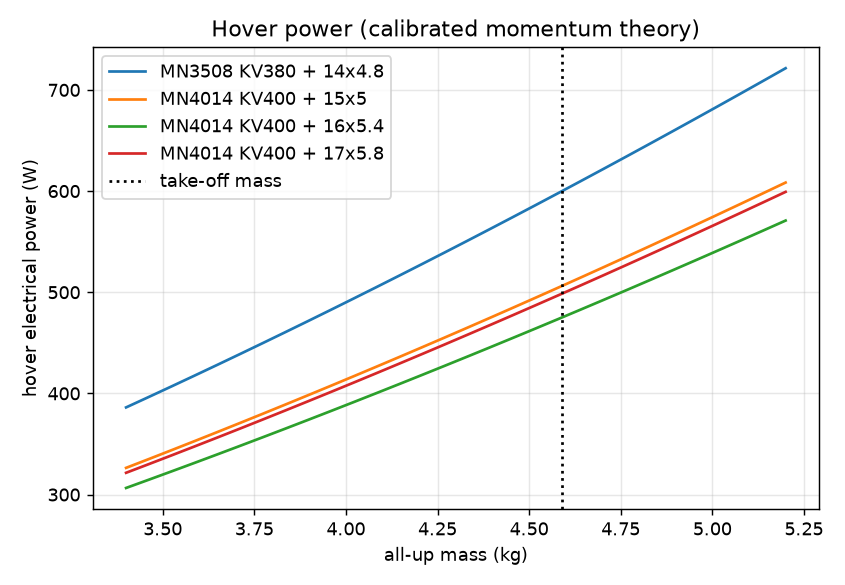
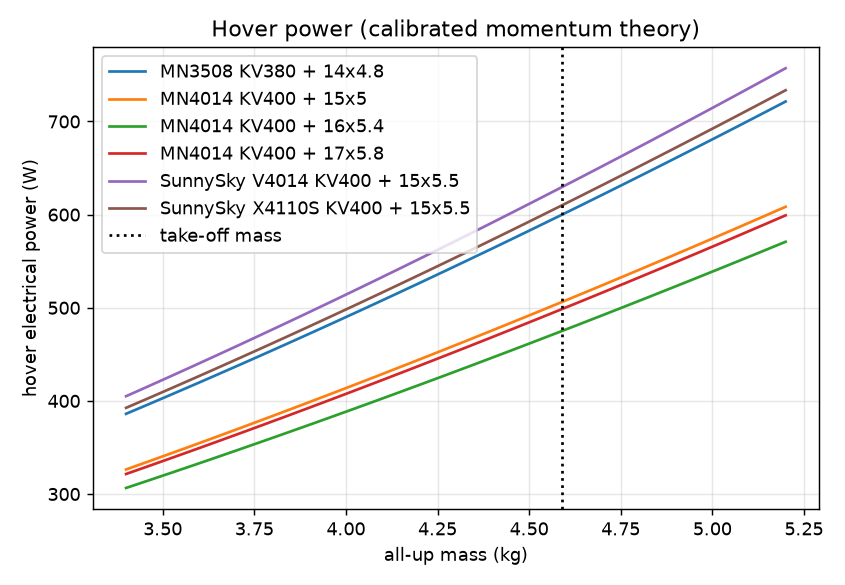
COTS: alternative parts section with cheaper lift motors run through the hover model
docs/cots-selection.md section 12 lists substitutes with linked prices. Two
SunnySky KV400 motors (V4014 at $79.99, X4110S at $46.99) are added to
analysis/hover.py as non-selected options so the propulsion trade reports them.
The selected design and its results are unchanged.

diff --git a/analysis/hover.py b/analysis/hover.py
@@ -35,6 +35,10 @@ OPTIONS = {
     "MN4014-15": LiftOption("MN4014 KV400 + 15x5", "MN4014 KV400", 15, 1250, 126.54, 4500, 2620, 415, 0.171, 0.026),
     "MN4014-16": LiftOption("MN4014 KV400 + 16x5.4", "MN4014 KV400", 16, 1410, 142.08, 4200, 3020, 500, 0.171, 0.031),
     "MN4014-17": LiftOption("MN4014 KV400 + 17x5.8", "MN4014 KV400", 17, 1530, 168.72, 4000, 3360, 571, 0.171, 0.036),
+    # Cheaper alternatives (docs/cots-selection.md §12): SunnySky bench tables at 22.2 V with
+    # the EOLO CN15x5.5 prop. Prop mass is assumed equal to the P15x5.  # VERIFY
+    "V4014-15": LiftOption("SunnySky V4014 KV400 + 15x5.5", "SunnySky V4014 KV400", 15, 1250, 158, 4980, 2750, 473, 0.166, 0.026),
+    "X4110S-15": LiftOption("SunnySky X4110S KV400 + 15x5.5", "SunnySky X4110S KV400", 15, 1250, 153, 0, 2430, 417, 0.165, 0.026),
 }
 SELECTED = "MN4014-15"  # D-027; its diameter must match params.Lift.prop_diameter
 assert abs(OPTIONS[SELECTED].d_in * 0.0254 - AC.lift.prop_diameter) < 1e-6

diff --git a/docs/cots-selection.md b/docs/cots-selection.md
@@ -313,8 +313,77 @@ Action Pod or a 5 V tap.
 | C-5 | Tap-test boom natural frequency after assembly (phone accelerometer or ArduPilot FFT log) | build |
 | C-6 | Order the carbon from carbonkevlarsupply.com (§9.1); on delivery, weigh, measure and bend-test (Report R-16) | owner |
 | C-7 | Weigh and measure the first 6S3P pack (Upgrade Energy RED V3 P50B) against 1290 g and 140 × 68 × 75 mm; rerun the analysis with the weighed mass | owner |
+| C-10 | If a cheaper lift motor is wanted (§12.1): bench-test one SunnySky V4014 KV400 for thrust, power and rpm with the chosen prop, then rerun the boom vibration check | owner |
 | C-9 | Kakute H743-Wing: confirm output numbering and DShot timer groups for the four lift motors; measure the X3520 shaft for the folding-prop collet | build |
 | C-8 | Measure the Suburban cargo width above the wheel wells (SIZE-2a): the aircraft needs 1.4 m | owner |
+
+## 12. Alternative parts
+
+These are substitutes for the parts selected in §1: cheaper, or stocked in the US when the
+selected part is not. None of them is in the design. Each row says what changes if it is
+used. Prices and stock were read on 2026-11-15.
+
+### 12.1 Lift motors under $100
+
+The selected MN4014 costs $96.90, or $388 for four. Buddy RC (US) stocks SunnySky motors
+of the same size with published 6S bench tables. They were run through the same hover
+model as the MN4014 (`analysis/hover.py`, results in `analysis/results/propulsion.json`).
+Front-motor thrust-to-weight includes the 4% download, as in §2; PERF-5 needs 1.8.
+
+| Motor | Price each | Set of 4 | Mass | Bench: 1250 g / max (15x5.5, 22.2 V) | Hover power | Hover time | Front T/W | Verdict |
+|---|---|---|---|---|---|---|---|---|
+| **T-Motor MN4014 KV400** (selected, 15x5) | $96.90 | $388 | 171 g | 126.5 W / 2620 g | 506 W | 27.6 min | 1.88 | baseline |
+| **SunnySky V4014 KV400** | [$79.99](https://www.buddyrc.com/products/sunnysky-v4014-motors) | $320 | 166 g | 158 W / 2750 g | 626 W | 22.4 min | 1.98 | **meets every requirement; saves $68** |
+| **SunnySky X4110S KV400** | [$46.99](https://www.buddyrc.com/products/sunnysky-x4110s-motors) | $188 | 165 g | 153 W / 2430 g | 605 W | 23.1 min | 1.75 | **saves $200, but 3% short of PERF-5** |
+| SunnySky X4112S KV400 | [$52.99](https://www.buddyrc.com/products/x4212s) | $212 | 188 g | not published for KV400 | — | — | — | not assessed; 17 g heavier per motor |
+| SunnySky V4008 KV380 | [$54.99](https://www.buddyrc.com/products/sunnysky-v4008-motors) | $220 | 105 g | rated 500 W, 20 A | — | — | — | too small: the front motors need about 415 W at full throttle |
+
+What the numbers mean:
+- **Both SunnySky motors draw about 20% more hover power**, by their own bench tables.
+  Hover time falls from 27.6 to 22–23 min. PERF-1 needs 15 min, so both still pass.
+- **The V4014 is the safe cheaper choice.** It has the same 44.7 mm rotor diameter as the
+  MN4014 and 5% more maximum thrust.
+- **The X4110S is the cheapest that nearly works.** At 1.75 it misses the 1.8 rule
+  narrowly. That rule is the margin for gusts and control in hover, so accepting it is a
+  decision for the owner, not a rounding matter. It also has a 47.5 mm rotor and a 4 mm
+  shaft with a prop adapter, so the printed mount and the prop height both change.
+- **Boom vibration needs rechecking with the SunnySky test prop.** The V4014 table shows
+  4980 rpm at 1250 g with the EOLO 15x5.5, against 4500 rpm for the P15x5. That puts the
+  top of the hover 1P band near 98 Hz, and the boom's first mode (114 Hz) only about 17%
+  above it; the rule is 25% (Report §9). This figure is a hand estimate with the report's
+  method, not an analysis result. Running the SunnySky motor with the T-Motor P15x5 keeps
+  the rpm, and the margin, of the baseline.
+- **The bench data is the manufacturer's, and less detailed than T-Motor's.** Bench-test
+  one motor and prop before buying four.
+- **The mount pattern is unverified** for both. `quadplane/hardware.py` holds the MN4014
+  pattern; measure the delivered motor and update it before printing the mounts.
+
+### 12.2 Lift props
+
+| Prop | Price per pair | 4 pairs | Notes |
+|---|---|---|---|
+| T-Motor P15x5 carbon (selected) | $55.90 | $224 | out of stock at the US dealer; 23–27 g |
+| EOLO CN15x5.5, carbon-reinforced nylon | [$17.99](https://www.buddyrc.com/products/eolo-cn15-5-5-prop) | $72 | Buddy RC (US), in stock. The prop SunnySky used for its bench tables. Saves $152. Mass, hub fit on the MN4014 and the higher rpm (§12.1) are **unverified** |
+
+The cheapest lift set that meets every requirement on paper is the V4014 with EOLO props:
+$392 against $612, saving $220, if the boom vibration margin is confirmed by test.
+
+### 12.3 Other subsystems
+
+| Subsystem | Selected (§1) | Alternative | Price | What changes |
+|---|---|---|---|---|
+| Lift motors | T-Motor store, $96.90 | Same motor from RobotShop (US stock) | [$118.48](https://www.robotshop.com/products/ligpower-mn4014-kv400-high-performance-uav-motor-for-aerial-photography) | nothing; $86 more for four |
+| ESCs | Lumenier Razor Pro 45A, $31.49 | Skystars Talon32 Slim 40A | [$23.99](https://www.racedayquads.com/products/skystarsrc-talon32-slim-40a-32-bit-3-6s-esc) | out of stock; BLHeli_32 firmware (end of life); saves $37 for five |
+| Battery | Upgrade Energy 6S3P P50B, $340 | Upgrade Energy RED V3 6S2P P50B (10 Ah, 216 Wh) | [$219](https://upgradeenergytech.com/products/red-6s2p-10000mah-molicel-p50b) | the light configuration (§5): about 9.3 lb and shorter hover; pusher throttle must be limited to hold the cell current. Not analysed with P50B cells |
+| Battery | as above | DIY 6S3P from 18 P45B cells | [$25.99 per 2](https://www.racedayquads.com/products/molicel-p45b-21700-4500mah-45a-3-7v-li-ion-battery-2pcs) | about $234 in cells plus nickel strip, balance lead and a spot welder; matches the analysed 1290 g pack |
+| Flight controller | Holybro Kakute H743-Wing, $105 | Same board with pin headers, from RaceDayQuads | [$72.99](https://www.racedayquads.com/products/holybro-kakute-3-8s-fixed-wing-flight-controller) | out of stock; saves $32 and ships from the US |
+| Flight controller | as above | Holybro Pixhawk 6C Mini | [$179](https://holybro.com/products/pixhawk-6c-mini) | needs a separate power module and a servo supply; more wiring and mass |
+| GPS + compass | Holybro Micro M10, $27.99 | Foxeer M10Q-180 V2 | [$23.99](https://www.racedayquads.com/products/foxeer-gps-m10q-180-gps-compass) | US stock; the cable has to be re-pinned for the board's GPS socket |
+| Airspeed | Holybro DroneCAN DLVR, $111 with pitot | Matek ASPD-DLVR | [$131.99](https://www.racedayquads.com/products/matek-digital-airspeed-sensor-aspd-dlvr) | out of stock; same sensor, CAN or I²C |
+| Receiver | RaceDayQuads, $38.99 | RadioMaster direct | [$29.99](https://radiomasterrc.com/products/dbr4-dual-band-xross-gemini-expresslrs-receiver) | same part; shipping origin not checked |
+| Handset | RaceDayQuads, $229.99 | RadioMaster direct, FCC version | [$199.99](https://radiomasterrc.com/products/tx16s-mk3-radio-controller) | same part; saves $30; shipping origin not checked |
+| Servos | Aloft Hobbies, $12.50 | Same servo from RaceDayQuads | [$13.49](https://www.racedayquads.com/products/emax-es08md-ii-12g-digital-metal-gear-servo) | nothing; useful to combine with the ESC order |
+| Carbon tubes | — | see §9.2, "If a tube is out of stock" | — | — |
 
 ## Sources
 
@@ -340,4 +409,5 @@ sources (bench tables, datasheets, masses) and the listings that were checked an
 - Matek M10Q-5883 (RaceDayQuads, out of stock): https://www.racedayquads.com/products/matek-m10q-5883-gnss-compass
 - Foxeer M10Q-180 V2 GPS + compass (RaceDayQuads, in stock): https://www.racedayquads.com/products/foxeer-gps-m10q-180-gps-compass
 - Holybro Remote ID: https://docs.holybro.com/radio/remote-id/overview-and-spec
+- SunnySky V4014, X4110S, X4112S, V4008 bench tables (Buddy RC listings, linked in §12.1)
 - Carbon Kevlar Supply (all carbon tubes and rods): https://carbonkevlarsupply.com/

diff --git a/docs/AerodynamicsReport.md b/docs/AerodynamicsReport.md
@@ -405,6 +405,8 @@ point**, not assumed.
 | **MN4014 KV400 + 15x5** | 1250 g at 126.5 W | **0.642** |
 | MN4014 KV400 + 16x5.4 | 1410 g at 142.1 W | 0.642 |
 | MN4014 KV400 + 17x5.8 | 1530 g at 168.7 W | 0.575 |
+| SunnySky V4014 KV400 + 15x5.5 (cheaper alternative, COTS §12) | 1250 g at 158 W | 0.514 |
+| SunnySky X4110S KV400 + 15x5.5 (cheaper alternative, COTS §12) | 1250 g at 153 W | 0.531 |
 
 Corrections applied explicitly:
 - **Download (+4%):** thrust lost to the booms and motor pods sitting under the disk.
